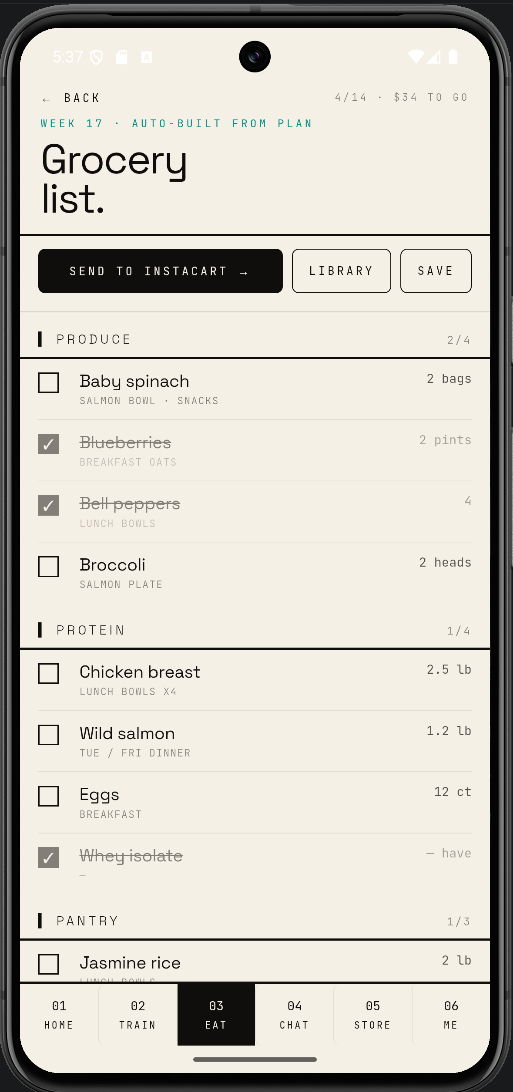
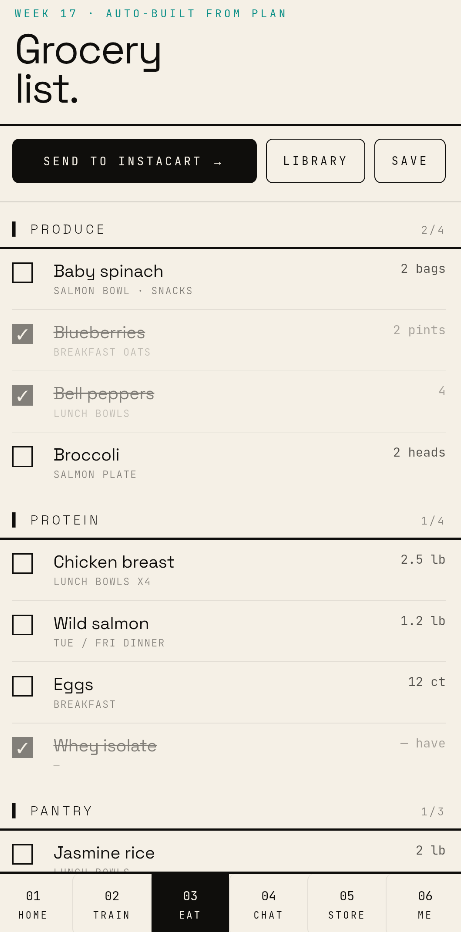
Use supplied GetApp phone screenshots

Changed region(s): [[0.0, 0.0, 1.0, 1.0], [0.8503, 0.7157, 0.9111, 0.7468], [0.8503, 0.6534, 0.9111, 0.6845]]

diff --git a/public/newdesign/GetApp.html b/public/newdesign/GetApp.html
@@ -219,6 +219,24 @@
       inset 0 0 0 1px rgba(255,255,255,0.08),
       inset 0 0 0 2px rgba(0,0,0,0.82);
   }
+  .feat-row .phone.screen-shot .screen-crop {
+    background: #080807;
+  }
+  .feat-row .phone.screen-shot.screen-light .screen-crop {
+    background: #f4eedf;
+  }
+  .feat-row .phone.screen-shot img {
+    display: block;
+    width: 100%;
+    height: 100%;
+    max-width: none;
+    object-fit: cover;
+    object-position: top center;
+    margin: 0;
+    transform: none;
+    border-radius: 0;
+    box-shadow: none;
+  }
   .feat-row .phone.home-live-demo .screen-crop { background: #080807; }
   .home-scroll-content {
     min-height: 132%;
@@ -647,7 +665,7 @@
     </div>
 
     <div class="feat-row reverse">
-      <div class="phone"><img src="/newdesign/grocery%20list%20(white).png" alt="Grocery list with Send to Instacart"/></div>
+      <div class="phone screen-shot screen-light"><div class="screen-crop"><img src="/newdesign/grocery%20list%20(white).png" alt="Grocery list with Send to Instacart"/></div></div>
       <div class="copy">
         <div class="step"><span class="n">07</span><span>GROCERY LIST</span></div>
         <h3>Auto-built from the week. Sent to Instacart in a tap.</h3>
@@ -683,7 +701,7 @@
     </div>
 
     <div class="feat-row reverse">
-      <div class="phone needs-bezel"><img src="/newdesign/shape%20radio%20udpated%20v2.png" alt="Shape Radio with HRM sync"/></div>
+      <div class="phone screen-shot"><div class="screen-crop"><img src="/newdesign/shape%20radio%20new.png" alt="Shape Radio with HRM sync"/></div></div>
       <div class="copy">
         <div class="step"><span class="n">11</span><span>RADIO</span></div>
         <h3>Music that locks to your heart rate.</h3>
@@ -709,7 +727,7 @@
     </div>
 
     <div class="feat-row reverse">
-      <div class="phone"><img src="/newdesign/personlize%20.png" alt="Shape Daily — personalized theme"/></div>
+      <div class="phone screen-shot"><div class="screen-crop"><img src="/newdesign/shape-daily.png" alt="Shape Daily — personalized theme"/></div></div>
       <div class="copy">
         <div class="step"><span class="n">14</span><span>PERSONALIZE</span></div>
         <h3>Light paper, dark paper, cream, ink.</h3>